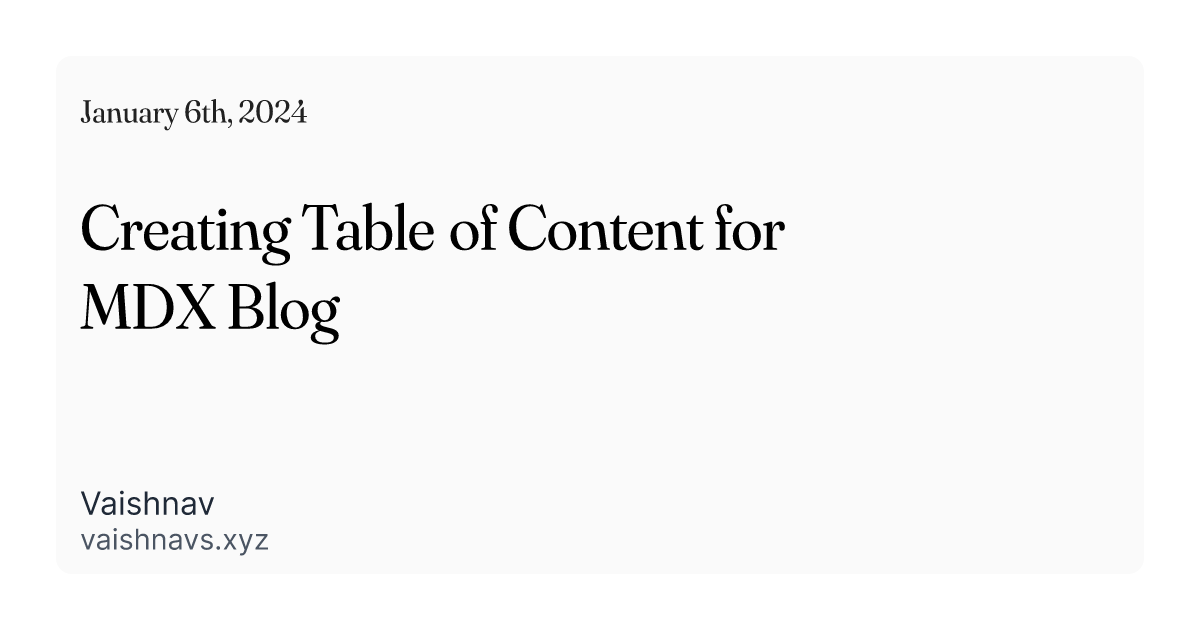
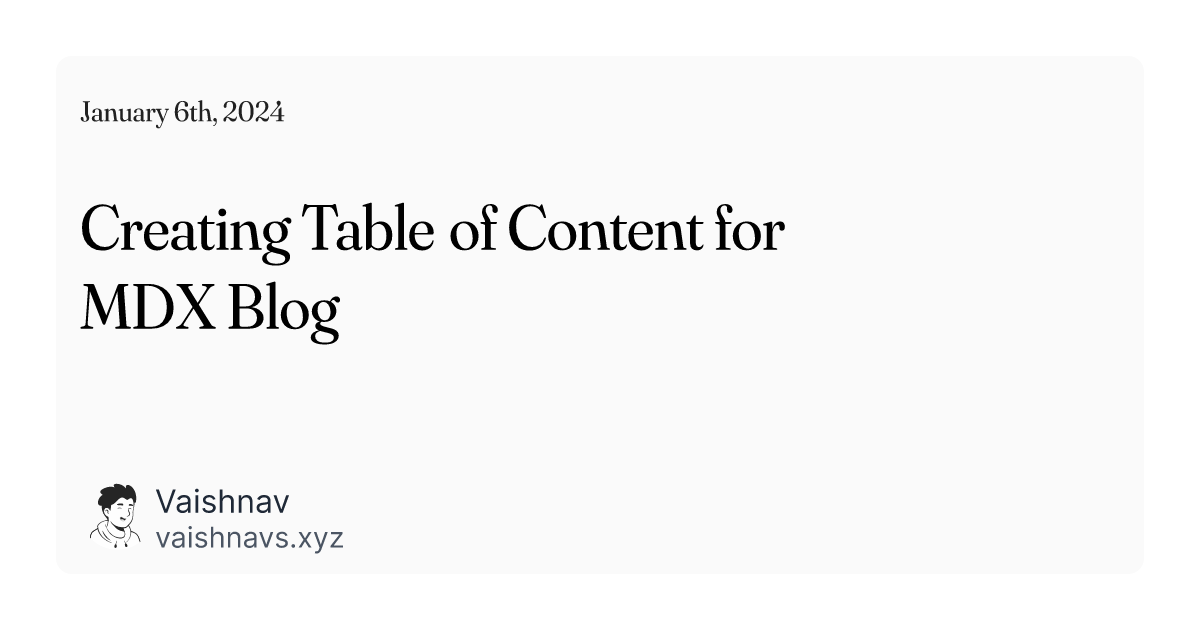
improve: og image styles

Changed region(s): [[0.0617, 0.754, 0.3083, 0.8746], [0.0617, 0.1508, 0.2467, 0.2111]]

diff --git a/components/OGTemplate.tsx b/components/OGTemplate.tsx
@@ -39,7 +39,7 @@ const OGTemplate = ({
         <p
           style={{
             marginBottom: "2.5rem",
-            fontSize: "2rem",
+            fontSize: "1.8rem",
             lineHeight: "1.75rem",
             color: "#212121",
             fontFamily: "Fraunces_144pt_Soft-Regular",
@@ -63,32 +63,50 @@ const OGTemplate = ({
       <div
         style={{
           display: "flex",
-          flexDirection: "column",
-          alignItems: "flex-start",
+          alignItems: "center",
         }}
       >
-        <p
+        <img
+          src={`${process.env.NEXT_PUBLIC_FE_URL}/avatar.svg`}
+          alt="avatar_present: Vaishnav Chandurkar"
           style={{
-            fontSize: "2rem",
-            lineHeight: "1.25rem",
-            fontWeight: 600,
-            color: "#1F2937",
-            marginBottom: "0px",
+            width: "75px",
+            height: "75px",
+            borderRadius: 9999,
+            gap: "4px",
+          }}
+        />
+
+        <div
+          style={{
+            display: "flex",
+            flexDirection: "column",
+            alignItems: "flex-start",
           }}
         >
-          Vaishnav
-        </p>
-        <p
-          style={{
-            color: "#4B5563",
-            fontSize: "1.8rem",
-            lineHeight: "1.25rem",
-            fontWeight: 500,
-            marginBottom: "0px",
-          }}
-        >
-          vaishnavs.xyz
-        </p>
+          <p
+            style={{
+              fontSize: "2rem",
+              lineHeight: "1.25rem",
+              fontWeight: 600,
+              color: "#1F2937",
+              marginBottom: "0px",
+            }}
+          >
+            Vaishnav
+          </p>
+          <p
+            style={{
+              color: "#4B5563",
+              fontSize: "1.8rem",
+              lineHeight: "1.25rem",
+              fontWeight: 500,
+              marginBottom: "0px",
+            }}
+          >
+            vaishnavs.xyz
+          </p>
+        </div>
       </div>
     </div>
   </div>
